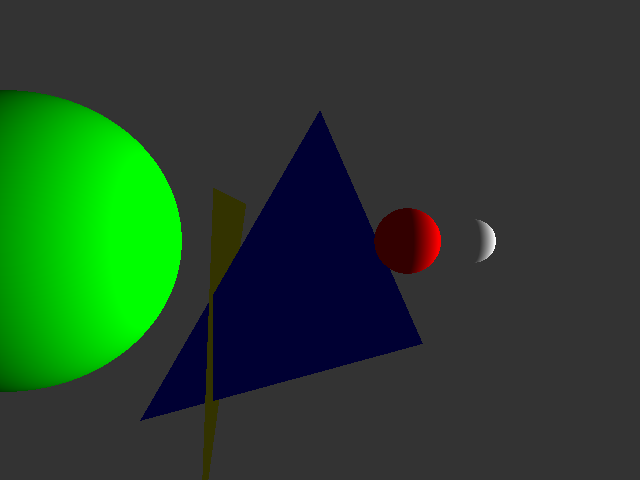
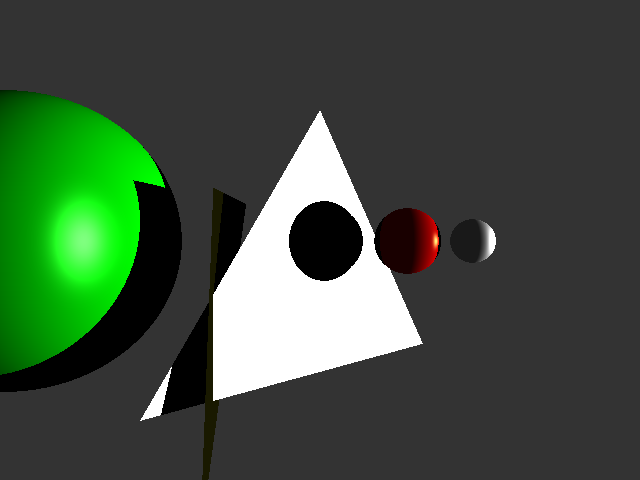
problems with triangle specular highlight

Changed region(s): [[0.2188, 0.25, 0.7812, 1.0], [0.0, 0.1875, 0.2812, 0.8438]]

diff --git a/src/main/PrivateUtilities.java b/src/main/PrivateUtilities.java
@@ -9,32 +9,35 @@ public class PrivateUtilities {
 
 	public Color color(Color finalColor, Object winningObject, Vector3D intersectionPosition, Light lightSource,
 			double ambientLight, Vector3D eye) {
-		if (finalColor.equals(Main.black)) {
-			return new Color(finalColor);
-		}
-		Vector3D n = winningObject.getNormalAt(intersectionPosition); // TODO is
-																		// this
-																		// right?
+
+		Vector3D n = winningObject.getNormalAt(intersectionPosition);
 		Color Cr = new Color(winningObject.getMaterialDiffuse());
 		Color Ca = new Color(ambientLight);
 		Color Cl = new Color(lightSource.getColor());
+
 		Vector3D l = new Vector3D(lightSource.getPosition());
 		final int p = winningObject.getPhongConstant();
-		Color Cp = new Color(p);
+		Color Cp = new Color(winningObject.getSpecularHighlight());
 		Vector3D e = new Vector3D(eye);
 		// r = 2n(n dot l) - l
+
 		Vector3D r = new Vector3D(n.multiply(2).multiply(n.dot(l)).sub(l));
 
 		// color = Cr (Ca + Cl Max(0, n dot l)) + ClCp max(0, e dot r) ^ p
 		// Cr(Ca + Cl max (0, n dot l))
-		Color first = Cr.multiply(Ca.add(Cl.multiply(Math.max(0, n.dot(l)))));
-		Color second = Cl.multiply(Cp.multiply(Math.pow(Math.max(0, e.dot(r)), p)));
-		return new Color(first.add(second));
+		Color kd = new Color(0);
+		Color diffuse = Cr.multiply((Cl.multiply(Math.max(0, n.dot(l)))));
+		Color specular = Cl.multiply(Cp).multiply(Math.pow(Math.max(0, e.dot(r)), p));
+		Color color = new Color(diffuse.add(specular));
+		Color ambient = Ca.multiply(winningObject.getColor()).multiply(lightSource.getColor());
+		return new Color(color.add(ambient));
+
 	}
 
 	public Color checkShadows(Color finalColor, Object winningObject, Vector3D intersectionPosition, Light lightSource,
 			ArrayList<Object> sceneObjects, int indexOfWinningObject) {
-		Vector3D distanceToLight = lightSource.getPosition().add(intersectionPosition.negative()).normalize();
+		Vector3D distanceToLight = new Vector3D(
+				lightSource.getPosition().add(intersectionPosition.negative()).normalize());
 		float distanceToLightMagnitude = (float) distanceToLight.magnitude();
 
 		Ray shadowRay = new Ray(intersectionPosition,

diff --git a/src/main/Triangle.java b/src/main/Triangle.java
@@ -13,12 +13,19 @@ public class Triangle extends Object {
 
 	@Override
 	public Color getColor() {
-		return color;
+		return new Color(color);
 	}
 
 	@Override
 	public Vector3D getNormalAt(Vector3D point) {
 		return getTriangleNormal();
+	}
+
+	private Vector3D getTriangleNormal() {
+		Vector3D CA = new Vector3D(C.x - A.x, C.y - A.y, C.z - A.z);
+		Vector3D BA = new Vector3D(B.x - A.x, B.y - A.y, B.z - A.z);
+		Vector3D normal = CA.cross(BA).normalize();
+		return new Vector3D(normal);
 	}
 
 	@Override
@@ -62,13 +69,6 @@ public class Triangle extends Object {
 		} else if (!color.equals(other.color))
 			return false;
 		return true;
-	}
-
-	private Vector3D getTriangleNormal() {
-		Vector3D CA = new Vector3D(C.x - A.x, C.y - A.y, C.z - A.z);
-		Vector3D BA = new Vector3D(B.x - A.x, B.y - A.y, B.z - A.z);
-		Vector3D normal = CA.cross(BA).normalize();
-		return new Vector3D(normal);
 	}
 
 	public double getTriangleDistance() {

diff --git a/src/main/Main.java b/src/main/Main.java
@@ -36,7 +36,7 @@ public class Main {
 		RGB backgroundColor = new RGB(0.2, 0.2, 0.2);
 
 		if (type.equals("diffuse")) {
-			ambientLight = .2;
+			ambientLight = .1;
 			cameraPosition = new Vector3D(0, 0, 1);
 			lookAt = new Vector3D(0, 0, 0);
 
@@ -148,7 +148,8 @@ public class Main {
 					Vector3D intersectingRayDirection = new Vector3D(cameraRayDirection);
 					// index coresponds to an object in our scene
 					Color intersectionColor = PublicUtilities.getPixel(intersectionPosition, intersectingRayDirection,
-							(ArrayList<Object>) sceneObjects, indexOfWinningObject, lightSource, ambientLight, lookAt);
+							(ArrayList<Object>) sceneObjects, indexOfWinningObject, lightSource, ambientLight,
+							new Vector3D(cameraRayOrigin));
 					pixel = new RGB(intersectionColor.red, intersectionColor.green, intersectionColor.blue);
 				}
 				image.buffer.setRGB(x, y, pixel.toInteger());

diff --git a/src/main/PublicUtilities.java b/src/main/PublicUtilities.java
@@ -66,8 +66,9 @@ public class PublicUtilities {
 
 		finalColor = privateUtilities.checkShadows(finalColor, winningObject, intersectionPosition, lightSource,
 				sceneObjects, indexOfWinningObject);
-		finalColor = privateUtilities.color(finalColor, winningObject, intersectionPosition, lightSource, ambientLight,
-				e);
+		if (!finalColor.equals(Main.black))
+			finalColor = privateUtilities.color(finalColor, winningObject, intersectionPosition, lightSource,
+					ambientLight, e);
 		finalColor = finalColor.clip();
 		return finalColor;
 	}

diff --git a/src/main/Color.java b/src/main/Color.java
@@ -32,7 +32,7 @@ public class Color {
 		return (red + green + blue) / 3;
 	}
 
-	Color multiply(double scalar) {
+	public Color multiply(double scalar) {
 		return new Color(red * scalar, green * scalar, blue * scalar);
 	}
 

diff --git a/src/main/Sphere.java b/src/main/Sphere.java
@@ -33,7 +33,7 @@ public class Sphere extends Object {
 
 	@Override
 	public Color getColor() {
-		return color;
+		return new Color(color);
 	}
 
 	@Override
